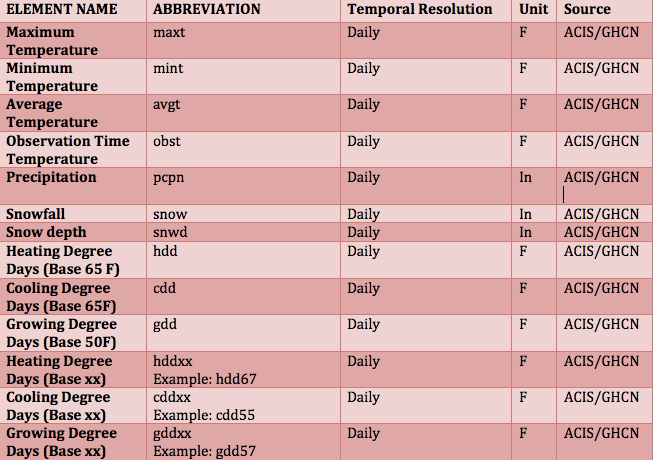
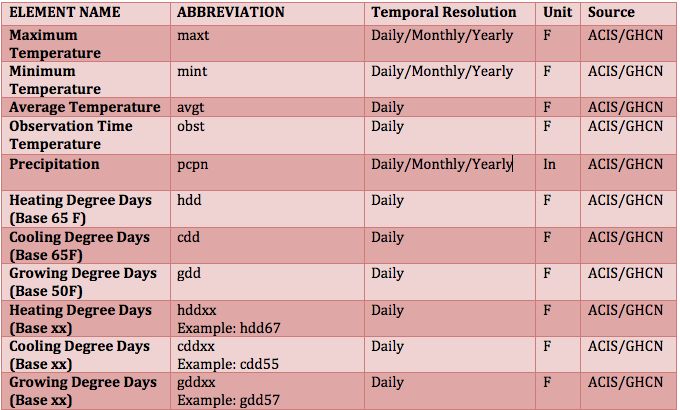
area time series and gridded data bug fixes

diff --git a/my_acis/templates/my_data/apps/gridded/area_time_series.html b/my_acis/templates/my_data/apps/gridded/area_time_series.html
@@ -83,7 +83,7 @@
         <td><img alt="QMark" title="QMark" src="{{MEDIA_URL}}img/QMark.png" class="trigger">
         <div class="pop-up">
             <div id="ht_elements">
-                <img alt=ElementChoices" title="ElementChoices" src="{{MEDIA_URL}}img/ACIS_Element_Choices_Grid.png" id="ACISElementChoices" width="450" height="450" border="0">
+                <img alt=ElementChoices" title="ElementChoices" src="{{MEDIA_URL}}img/ACIS_Element_Choices_TS.png" id="ACISElementChoices" width="450" height="450" border="0">
             </div>
         </div>
         </td>
@@ -118,7 +118,6 @@
             <select id="grid" name="grid">
             <option value="1" {{checkbox_vals.1_selected}}>NRCC Interpolated(1950-Present)</option>
             <option value="3" {{checkbox_vals.3_selected}}>NRCC Int. Hi-Res(2007-Present)</option>
-            <option value="21" {{checkbox_vals.21_selected}}>PRISM(1895-Present)</option>
             <option value="4" {{checkbox_vals.4_selected}}>CRCM+NCEP(1970-2000)</option>
             <option value="5" {{checkbox_vals.5_selected}}>CRCM+CCSM(1970-2000,2040-2070)</option>
             <option value="6" {{checkbox_vals.6_selected}}>CRCM+CCSM3(1970-2000,2040-2070)</option>

diff --git a/my_acis/media/js/form-utils.js b/my_acis/media/js/form-utils.js
@@ -319,6 +319,7 @@ function show_overlay_map(){
     ol_map_div.style.display = "block";
     var area_type = document.getElementById('area_type').value;
     var host = document.getElementById('host').value;
+    var kml_file_path = document.getElementById('kml_file_path').value;
     if (!$('#map-overlay').length){
         var m = document.createElement('div');
         m.setAttribute('id', 'map-overlay');

diff --git a/my_acis/templates/my_data/data/gridded/home.html b/my_acis/templates/my_data/data/gridded/home.html
@@ -522,7 +522,6 @@
     </p>
     {%endif%}
 
-
     {%if results %}
     <!--Link to relevant applications-->
 

diff --git a/my_acis/my_data/views.py b/my_acis/my_data/views.py
@@ -825,7 +825,6 @@ def area_time_series(request):
         #Display liust and serach params
         search_params, display_params_list =  set_area_time_series_params(form)
         context['display_params_list'] = display_params_list
-        context['req'] =display_params_list[1]
         #joins plot opts to search_params
         join_dicts(search_params,initial_plot)
         #Set overlay map if neded
@@ -870,6 +869,7 @@ def area_time_series(request):
                 return render_to_response('my_data/apps/gridded/area_time_series.html', context, context_instance=RequestContext(request))
             #Generate time series from data request
             summary_time_series, download_data = compute_area_time_series_summary(req,search_params,poly,PointIn)
+            context['req']=req
         #Write data in download format
         #Set rest of search_params,context variables and save results
         search_params['spatial_summary'] = WRCCData.DISPLAY_PARAMS[form['spatial_summary']]
@@ -899,7 +899,7 @@ def area_time_series(request):
         form = set_form(request)
         context['need_overlay_map'] = True
         context['need_gridpoint_map'] = False
-        initial, checkbox_vals = set_station_data_initial(request)
+        initial, checkbox_vals = set_area_time_series_initial(request)
         #Override initial where needed
         initial['select_grid_by'] = form['select_overlay_by']
         checkbox_vals[form['select_overlay_by'] + '_selected'] = 'selected'
@@ -2035,11 +2035,11 @@ def compute_area_time_series_summary(req, search_params, poly, PointIn):
         return []
     if not 'data' in req.keys():
         return []
-    if 'location' in search_params.keys():
+    if 'location' in search_params.keys() or isinstance(req['meta']['lat'],float):
         lats_bbox_unique = [req['meta']['lat']]
         lons_bbox_unique = [req['meta']['lon']]
     else:
-        lats_bbox_unique = [lat_grid[0] for lat_grid in req['meta']['lat']]
+        lats_bbox_unique=[lat_grid[0] for lat_grid in req['meta']['lat']]
         lons_bbox_unique = req['meta']['lon'][0]
     #Generate time series from data request
     summary_time_series = [[[str(dat[0])] for dat in req['data']] for el in element_list]
@@ -2058,7 +2058,7 @@ def compute_area_time_series_summary(req, search_params, poly, PointIn):
                 #point lies witin shape, add data to data_poly
                 for date_idx, date_data in enumerate(req['data']):
                     for el_idx, el in enumerate(element_list):
-                        if 'location' in search_params.keys():
+                        if 'location' in search_params.keys() or isinstance(req['meta']['lat'],float):
                             try:
                                 val = float(date_data[el_idx+1])
                             except:
@@ -2068,7 +2068,6 @@ def compute_area_time_series_summary(req, search_params, poly, PointIn):
                                 val = float(date_data[el_idx+1][lat_idx][lon_idx])
                             except:
                                 continue
-
                         if abs(val + 999.0) > 0.001 and abs(val - 999.0)>0.001:
                             values_poly[el_idx][date_idx].append(val)
     #Summarize data
@@ -2410,6 +2409,7 @@ def set_plot_options(request):
             checkbox_vals['marker_type' + '_' + marker_type + '_selected'] = 'selected'
     return initial, checkbox_vals
 
+
 def set_sod_initial(request, app_name):
     stn_id = request.GET.get('stn_id', None)
     start_date = request.GET.get('start_date', None)
@@ -2650,6 +2650,10 @@ def set_gridded_data_initial(request):
             checkbox_vals['temporal_summary_' + st + '_selected'] ='selected'
         if st == initial['spatial_summary']:
             checkbox_vals['spatial_summary_' + st + '_selected'] ='selected'
+    for g in ['1','21','3','4','5','6','7','8','9','10','11','12','13','14','15','16']:
+        checkbox_vals[g + '_selected'] =''
+        if initial['grid'] == g:
+            checkbox_vals[g + '_selected'] ='selected'
     return initial, checkbox_vals
 
 def set_area_time_series_initial(request):
